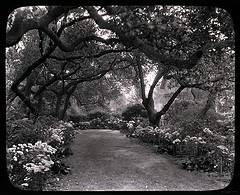
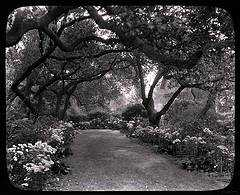
Compress Images

diff --git a/_posts/2017-09-29-20170928.md b/_posts/2017-09-29-20170928.md
@@ -4,11 +4,6 @@ categories: Stories
 tags: 自由
 ---
 
-我希望有一天我能理解。
-
-生命，就像是阳光透过玻璃折射出斑斓的光，
-
-而我，就是其中的一束。
 
 我们活在矛盾的世界中，
 
@@ -20,7 +15,7 @@ tags: 自由
 
 记忆，梦想，希望，追逐
 
-渐渐失去自我，放弃自由。
+渐渐失去自我，失去自由。
 
 就算是一只小鸟，也能自由的飞过高墙，
 
@@ -31,7 +26,5 @@ tags: 自由
 坚强而又软弱。
 
 愤怒而又懦小。
-
-绝望而又颠狂的人们，到底在守护什么？
 
 绝望而又颠狂的人们，到底能守护什么？
